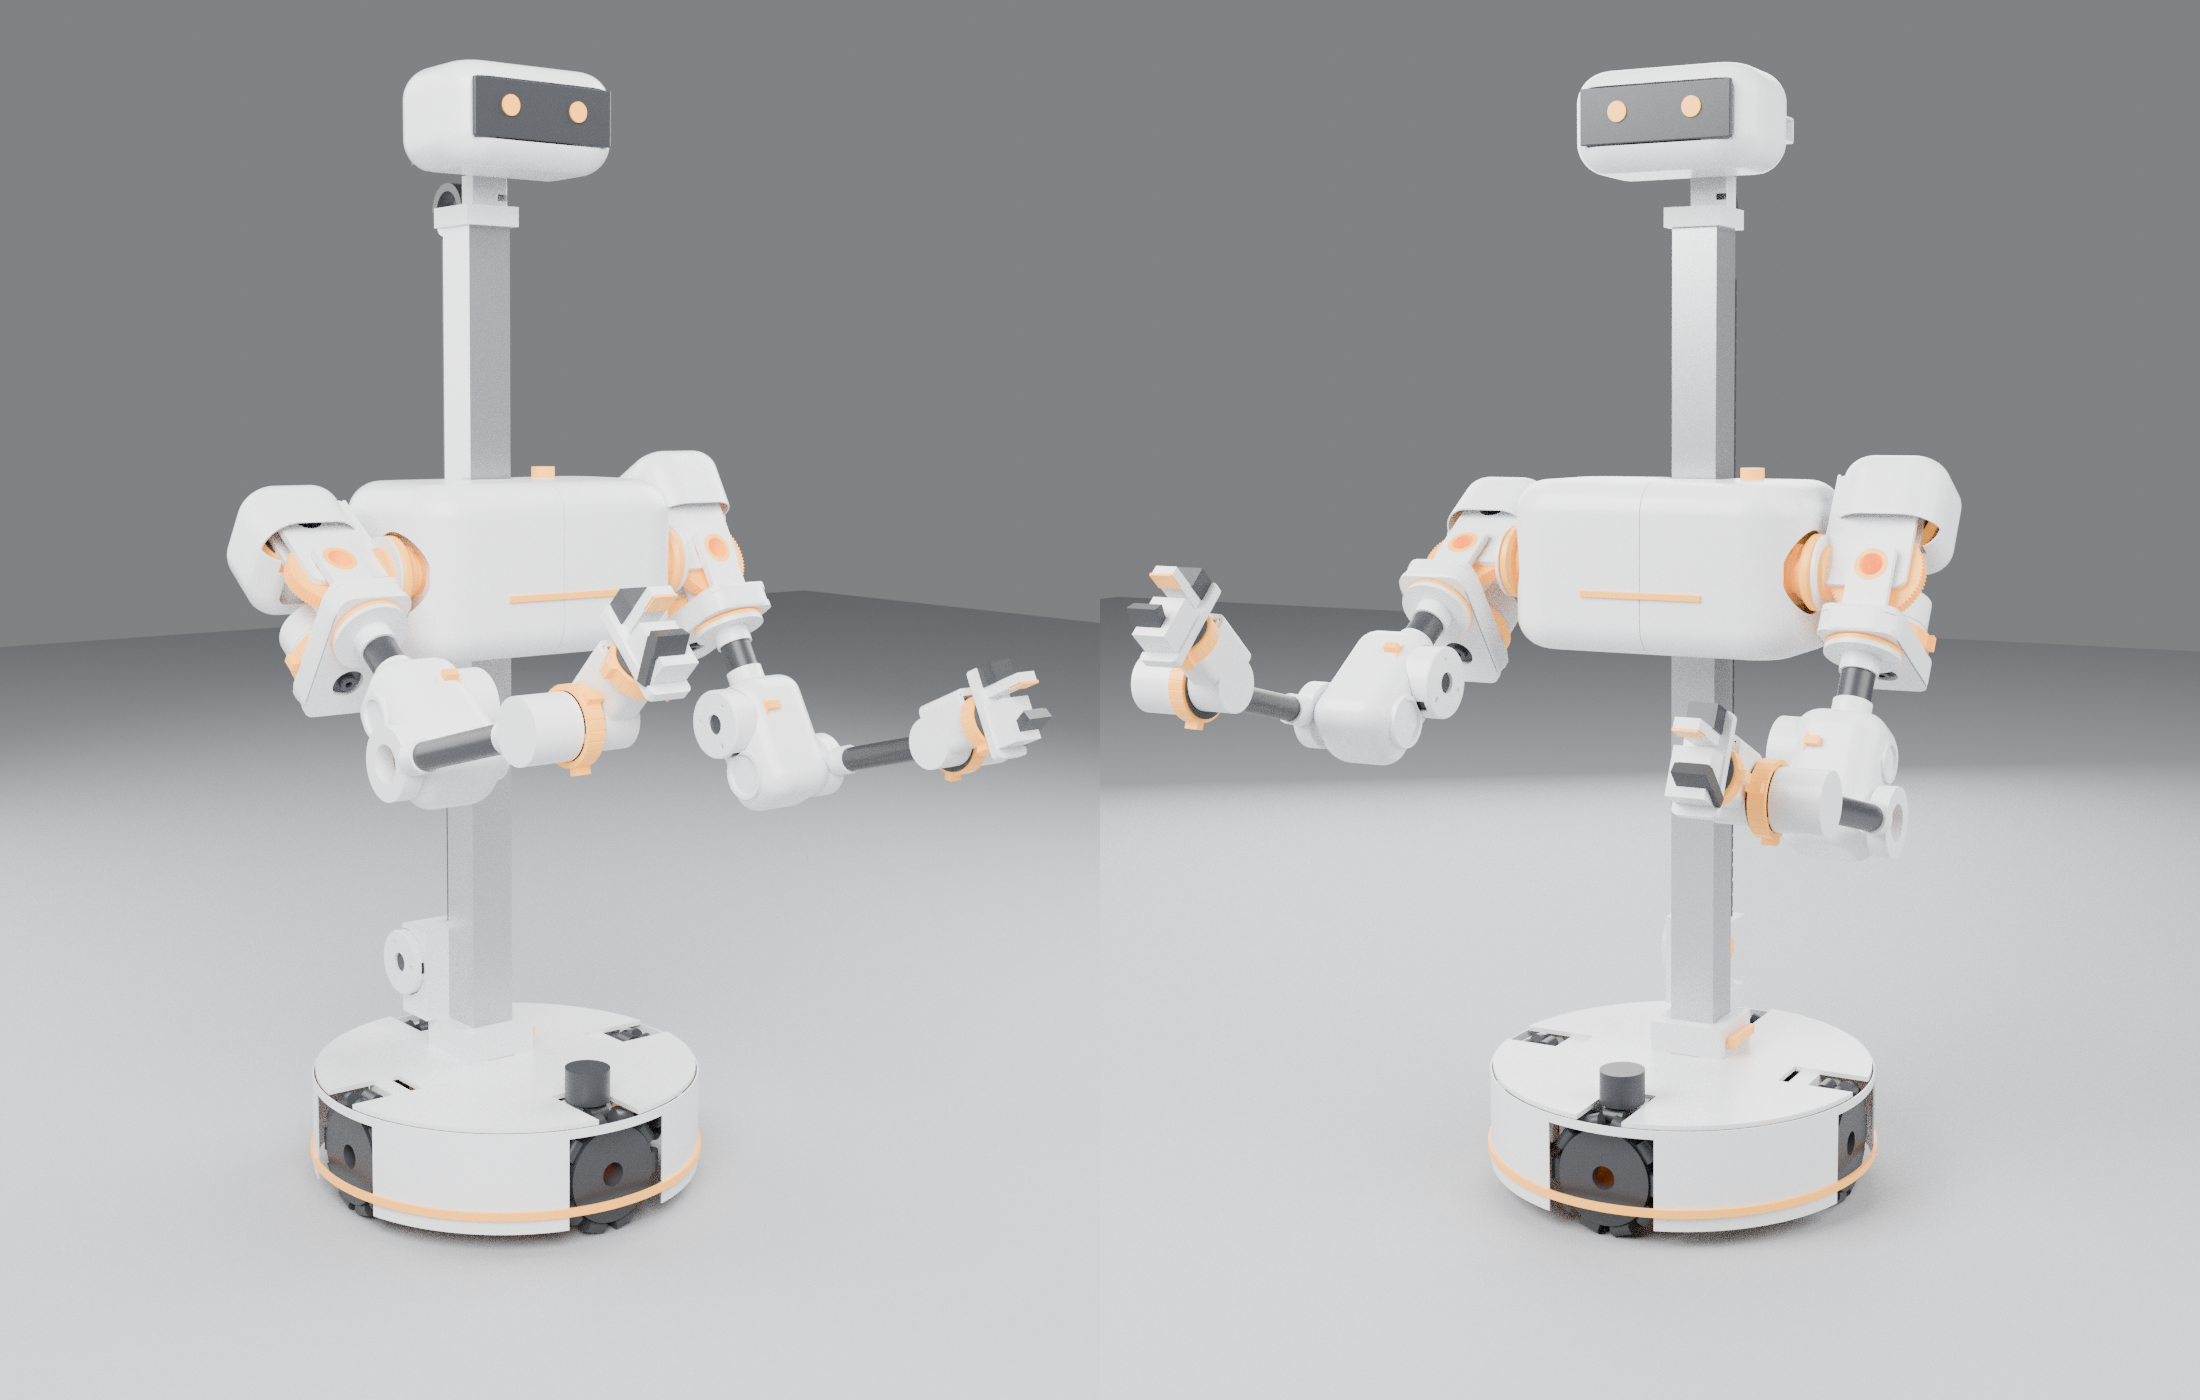
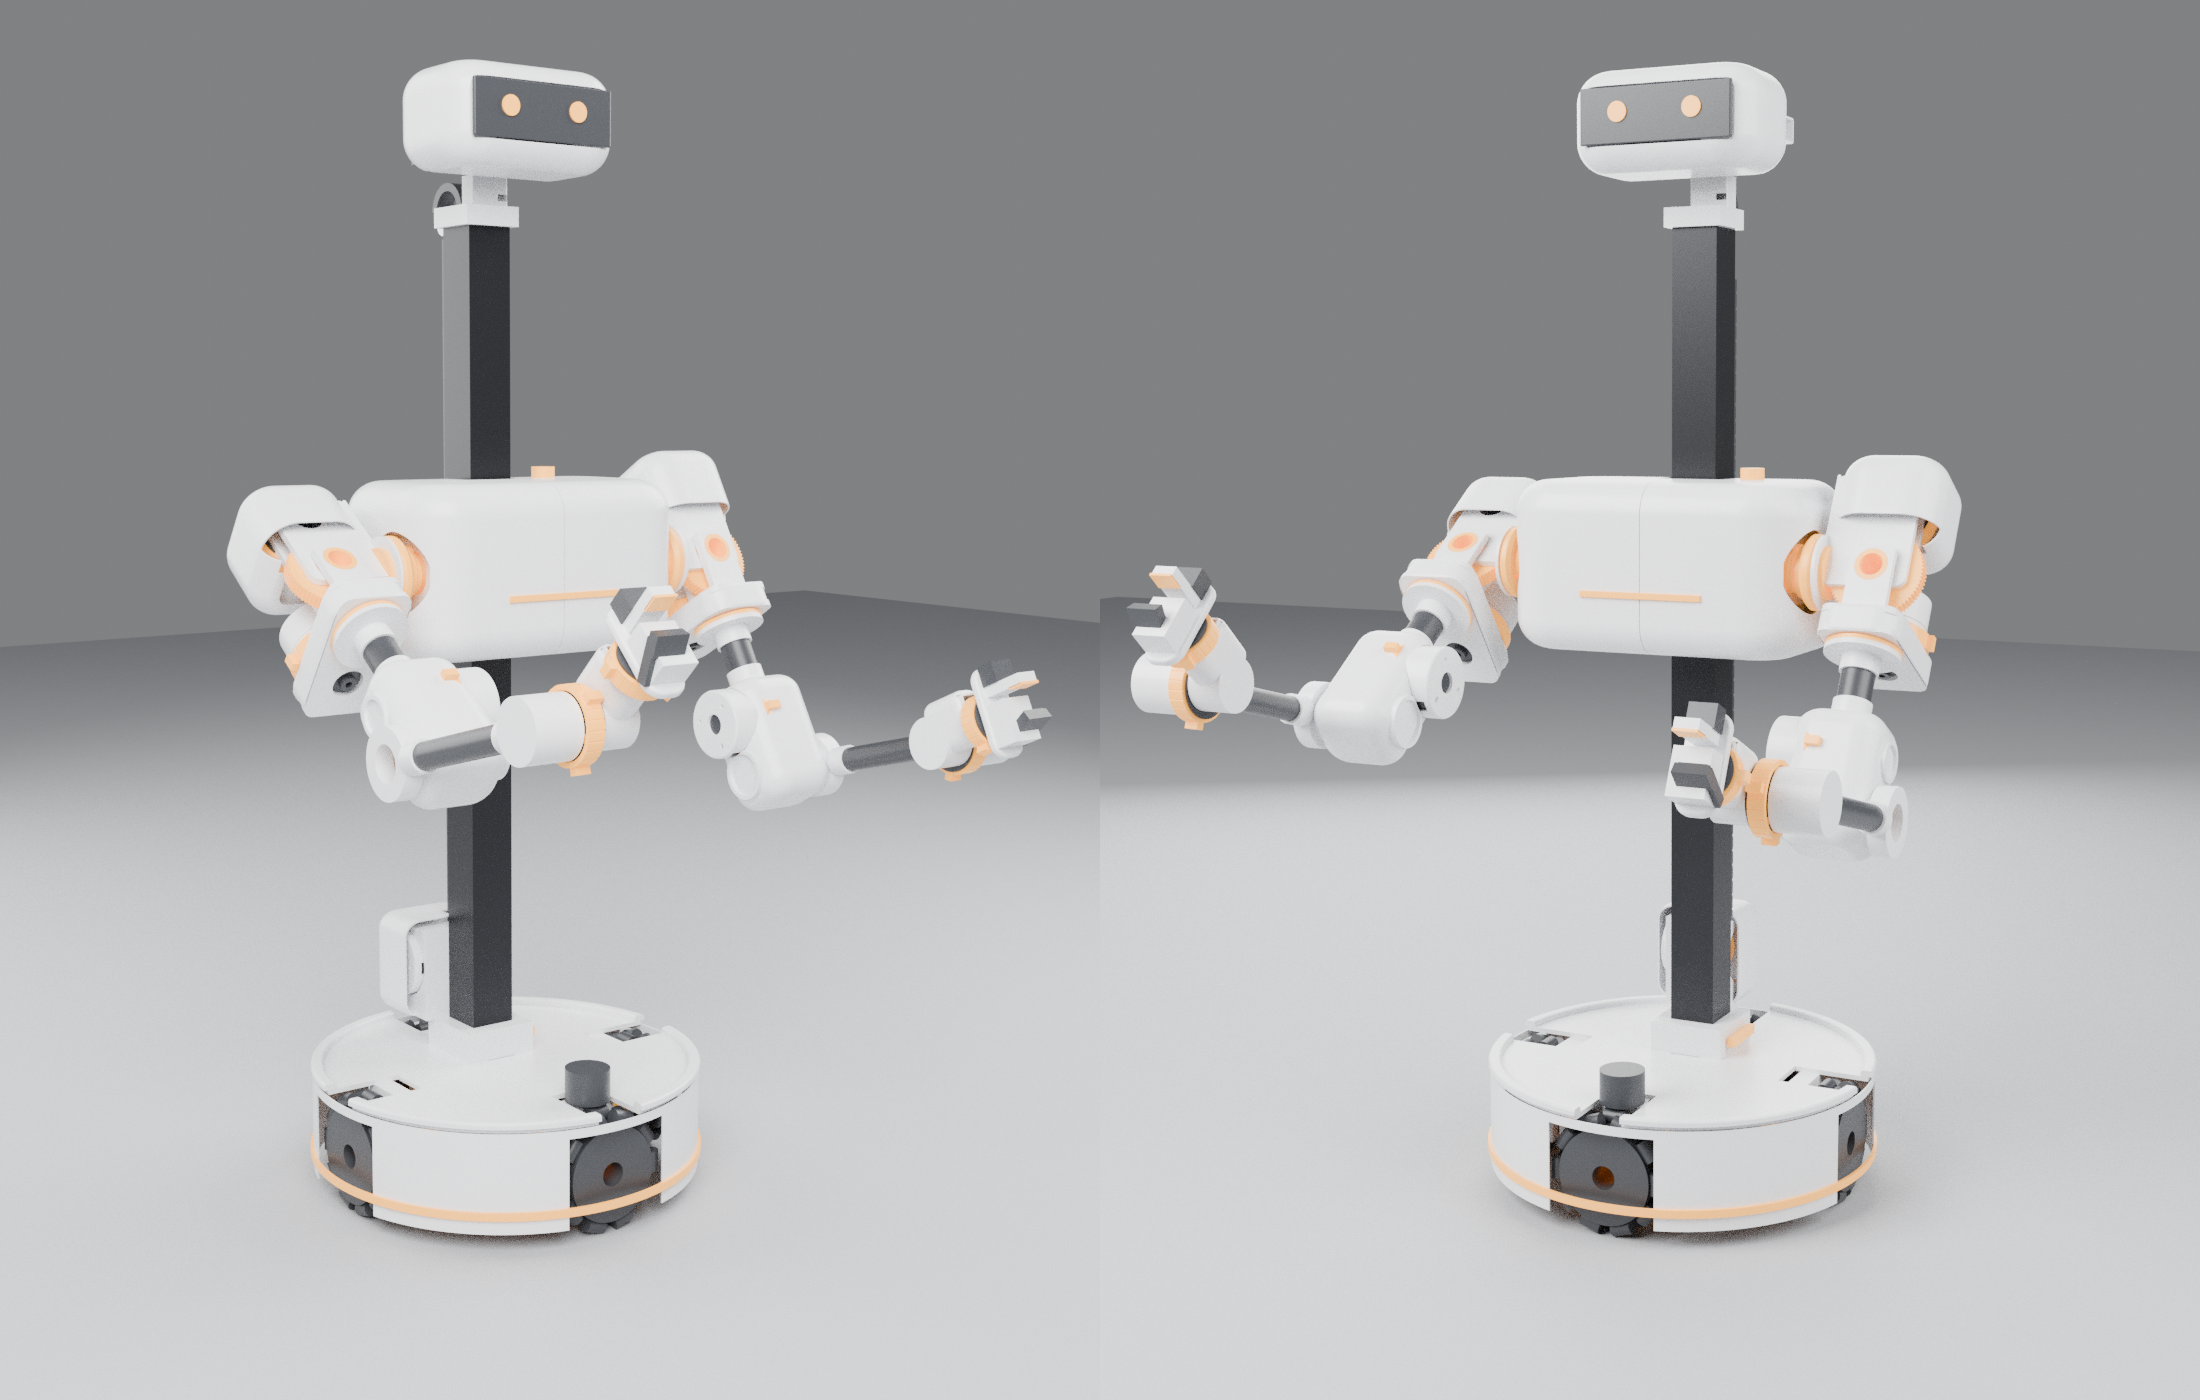
R&D loop 11: looks pass v2 (black mast, lift-drive cover, soft hand, base rim); checks clean
Claude-Session: https://claude.ai/code/session_01RwSoTh3JZTTiPE9Ryxfm6D

diff --git a/rnd/parts/hand.py b/rnd/parts/hand.py
@@ -14,6 +14,7 @@ import math
 from build123d import Align, Axis, Box, Cylinder, Part, Pos, Rot, fillet
 
 from . import cartridge_s as cs
+from .soft import soft_box
 from .kx import KX44, KX56, collar, hub_pip as hub, male
 
 MIN = (Align.CENTER, Align.CENTER, Align.MIN)
@@ -62,7 +63,7 @@ def cartridge_d_stack() -> float:
 def palm() -> Part:
     p = Pos(0, 0, -6) * Rot(90, 0, 0) * Cylinder(30, 40)               # boss around the wrist axis (KX56 hub bolts on +Y)
     zb = SLEEVE_TOP - cs.SERVO["case_h"] - cs.SERVO["bottom"] - cs.FLOOR + 2      # palm bottom ≈ servo top face
-    p += Pos(cs.SERVO["l"] / 2 - cs.SERVO["shaft_off"], 0, zb) * _rbox(64, 40, -6 - zb, 10, align=(Align.CENTER, Align.CENTER, Align.MIN))
+    p += Pos(cs.SERVO["l"] / 2 - cs.SERVO["shaft_off"], 0, zb + (-6 - zb) / 2) * soft_box(64, 40, -6 - zb, 16, 10)   # looks pass v2
     # pocket for the flipped wrist-roll sleeve (slides in from the bottom, 2 screws)
     p -= Pos(cs.SERVO["l"] / 2 - cs.SERVO["shaft_off"], 0, zb - 1) * Box(cs.SERVO["l"] + 2 * (cs.FIT + cs.WALL) + 0.6,
                                                                        cs.SERVO["w"] + 2 * (cs.FIT + cs.WALL) + 0.6, SLEEVE_TOP - zb + 1.5, align=MIN)
@@ -84,7 +85,7 @@ def gripper_parts(jaw_deg: float = 25.0):
     z0 = wrist_roll_face_z() - KX44.gap          # KX44 hub face (gripper side)
     zb = z0 - 12.6                               # base plate top = bottom of the hub + retainer
     parts = []
-    base = Pos(5, 0, zb - 10) * _rbox(104, 46, 10, 6, align=(Align.CENTER, Align.CENTER, Align.MIN))
+    base = Pos(5, 0, zb - 5) * soft_box(104, 46, 10, 18, 3.5)
     parts.append(("grip_base", base, "white"))
     zs = zb - 10 - 13.0                          # servo shaft height (servo hangs under the base)
     sx = -24.0                                   # shaft x

diff --git a/rnd/parts/base.py b/rnd/parts/base.py
@@ -81,6 +81,19 @@ def deck_quarter(q) -> Part:
     return p
 
 
+def rim() -> Part:
+    """Looks pass v2: rounded rim ring on the deck edge (printed in 4 arcs with the skirt quarters)."""
+    from build123d import fillet as _f
+    r = Pos(0, 0, Z1) * (Cylinder(R_SHELL + 2, 8, align=MIN) - Cylinder(R_SHELL - 14, 8, align=MIN))
+    try:
+        r = _f(r.edges().group_by(Axis.Z)[-1], 3.8)
+    except ValueError:
+        pass
+    for k in range(4):
+        r -= Rot(0, 0, 90 * k) * Pos(R_W, 0, Z1 - 5) * Box(130, 60, 20, align=MIN)     # wheel cut-outs
+    return r
+
+
 def skirt_quarter(q) -> Part:
     s = Pos(0, 0, Z0) * (Cylinder(R_SHELL, Z1 - Z0 - DECK_T, align=MIN) - Cylinder(R_SHELL - 2, Z1 - Z0 - DECK_T, align=MIN))
     s &= Rot(0, 0, 90 * q + 45) * Pos(R_SHELL / 2 + 1, R_SHELL / 2 + 1, Z0) * Box(R_SHELL + 2, R_SHELL + 2, 200, align=MIN)
@@ -108,7 +121,7 @@ def module():
     for q in range(4):
         out += [(f"deck{q}", deck_quarter(q), "white"), (f"skirt{q}", skirt_quarter(q), "white")]
     c, lever, plug = coupling()
-    out += [("battery", battery(), "dark"), ("coupling", c, "white"), ("cam_lever", lever, "orange"), ("plug", plug, "dark"),
+    out += [("rim", rim(), "white"), ("battery", battery(), "dark"), ("coupling", c, "white"), ("cam_lever", lever, "orange"), ("plug", plug, "dark"),
             ("lidar", Pos(R_SHELL - 70, 0, Z1) * Cylinder(28, 41, align=MIN), "dark"),
             ("bumper_light", Pos(0, 0, Z0 + 18) * (Cylinder(R_SHELL + 4, 10, align=MIN) - Cylinder(R_SHELL, 10, align=MIN)), "orange"),
             ("base_electronics", Rot(0, 0, 45) * Pos(135, 0, Z0 + 10) * Box(50, 70, 30, align=MIN), "dark")]

diff --git a/rnd/parts/upper.py b/rnd/parts/upper.py
@@ -67,6 +67,16 @@ def lift_drive():
              - Pos(MAST_X - W / 2 - 50, -20, z) * Rot(90, 0, 0) * Cylinder(45, 200), "white")]
 
 
+def lift_cover() -> Part:
+    """Looks pass v2: rounded cover over the lift cartridge, pulley and mount at the mast foot (slot for the belt)."""
+    x0, x1, y0, y1, z0, z1 = -194.0, -91.0, -88.0, 36.0, Z_BASE + 41, Z_BASE + 172
+    c = Pos((x0 + x1) / 2, (y0 + y1) / 2, (z0 + z1) / 2) * soft_shell(x1 - x0, y1 - y0, z1 - z0, 30, 22, 2.0)
+    c -= Pos((x0 + x1) / 2, (y0 + y1) / 2, z0) * Box(x1 - x0 + 2, y1 - y0 + 2, 6)      # open bottom
+    c -= Pos(MAST_X - W / 2 - 34, -2, z1) * Box(26, 22, 10)                           # belt slot
+    c -= Pos(x1, (y0 + y1) / 2, (z0 + z1) / 2) * Box(36, y1 - y0 + 4, z1 - z0 + 4)       # open against the mast / mount face
+    return c
+
+
 def carriage(lift_mm: float) -> Part:
     h = 160.0
     c = Pos(MAST_X, 0, lift_mm - h / 2) * (Box(W + 26, W + 26, h, align=MIN) - Box(W + 2, W + 2, h, align=MIN))
@@ -125,7 +135,7 @@ def head(pan_deg: float = 0.0, tilt_deg: float = 0.0):
 
 def module(lift_m: float = 0.75):
     L = lift_m * 1000
-    return [("mast", mast(), "steel"), ("ratchet", ratchet_strip(), "dark"), *lift_drive(),
+    return [("mast", mast(), "black"), ("ratchet", ratchet_strip(), "dark"), *lift_drive(), ("lift_cover", lift_cover(), "white"),
             ("carriage", carriage(L), "white"), *torso(L), *head()]
 
 

diff --git a/rnd/render_robot.py b/rnd/render_robot.py
@@ -19,7 +19,7 @@ def mat(n, c, r=0.4, metal=0.0, emit=0.0):
     return m
 
 
-M = {"white": mat("w", (0.80, 0.81, 0.83), 0.28), "dark": mat("d", (0.035, 0.037, 0.042), 0.38),
+M = {"black": mat("k", (0.02, 0.021, 0.024), 0.32, 0.6), "white": mat("w", (0.80, 0.81, 0.83), 0.28), "dark": mat("d", (0.035, 0.037, 0.042), 0.38),
      "orange": mat("o", (1.0, 0.42, 0.06), 0.35, emit=0.6), "steel": mat("s", (0.55, 0.56, 0.58), 0.3, 0.8)}
 for line in (d / LIST).read_text().splitlines():
     n, c = line.split()

diff --git a/docs/RND_LOG.md b/docs/RND_LOG.md
@@ -527,3 +527,19 @@ The owner asked why the head doesn't stay at the top. Evaluated and adopted:
   - the lift motor at the mast foot is exposed
   - the wrist/hand block is still boxy
   - the base deck needs a rim
+
+## 2026-11-25: loop 11, looks pass v2
+
+- **Mast:** black anodised. A cover isn't possible because the carriage's 625 bearings run on all four faces. Dark recedes visually, so the "long neck" reads as a spine and the white body and head carry the form (render check).
+- **Lift drive:** rounded cover at the mast foot, open toward the mast, with a belt slot.
+- **Hand:** palm and gripper base are soft on every edge.
+- **Base:** rounded rim on the deck edge (printed in arcs).
+- **Checks:**
+  - local interference clean (sub-cm³ mounting touches)
+  - whole-robot check: 0 clashes, all pieces printable
+  - twin unchanged: reach 99 %, tip margin ≥ 50 mm
+- **Render:** [img/robot_rounded_v2.png](rnd/img/robot_rounded_v2.png).
+- **Still boxy / next looks items:**
+  - the yaw-block bands
+  - the exposed orange collars at the shoulder roll (they read as "expressed joints" and are kept on purpose)
+  - the wheel windows in the skirt (add fender lips)

diff --git a/docs/rnd/assembly.md b/docs/rnd/assembly.md
@@ -27,12 +27,12 @@
 | pulley 72T | 16 × 113 × 113 | 155 | ✅ |
 | elbow pulley hub | 67 × 113 × 113 | 97 | ✅ |
 | KX74 collar | 19 × 98 × 103 | 35 | ✅ |
-| gripper grip_base | 10 × 101 × 101 | 48 | ✅ |
 | mast coupling | 40 × 100 × 100 | 253 | ✅ |
 | forearm (ends) [1] | 53 × 65 × 95 | 38 | ✅ |
 | pitch shaft | 68 × 94 × 94 | 186 | ✅ |
 | pulley 60T | 16 × 94 × 94 | 107 | ✅ |
-| palm | 40 × 75 × 93 | 160 | ✅ |
+| palm | 40 × 75 × 92 | 150 | ✅ |
+| gripper grip_base | 10 × 91 × 91 | 44 | ✅ |
 | ferrule (arm side) | 18 × 91 × 91 | 67 | ✅ |
 | KX74 hub | 12 × 90 × 90 | 68 | ✅ |
 | small-pulley hub | 46 × 90 × 90 | 82 | ✅ |
